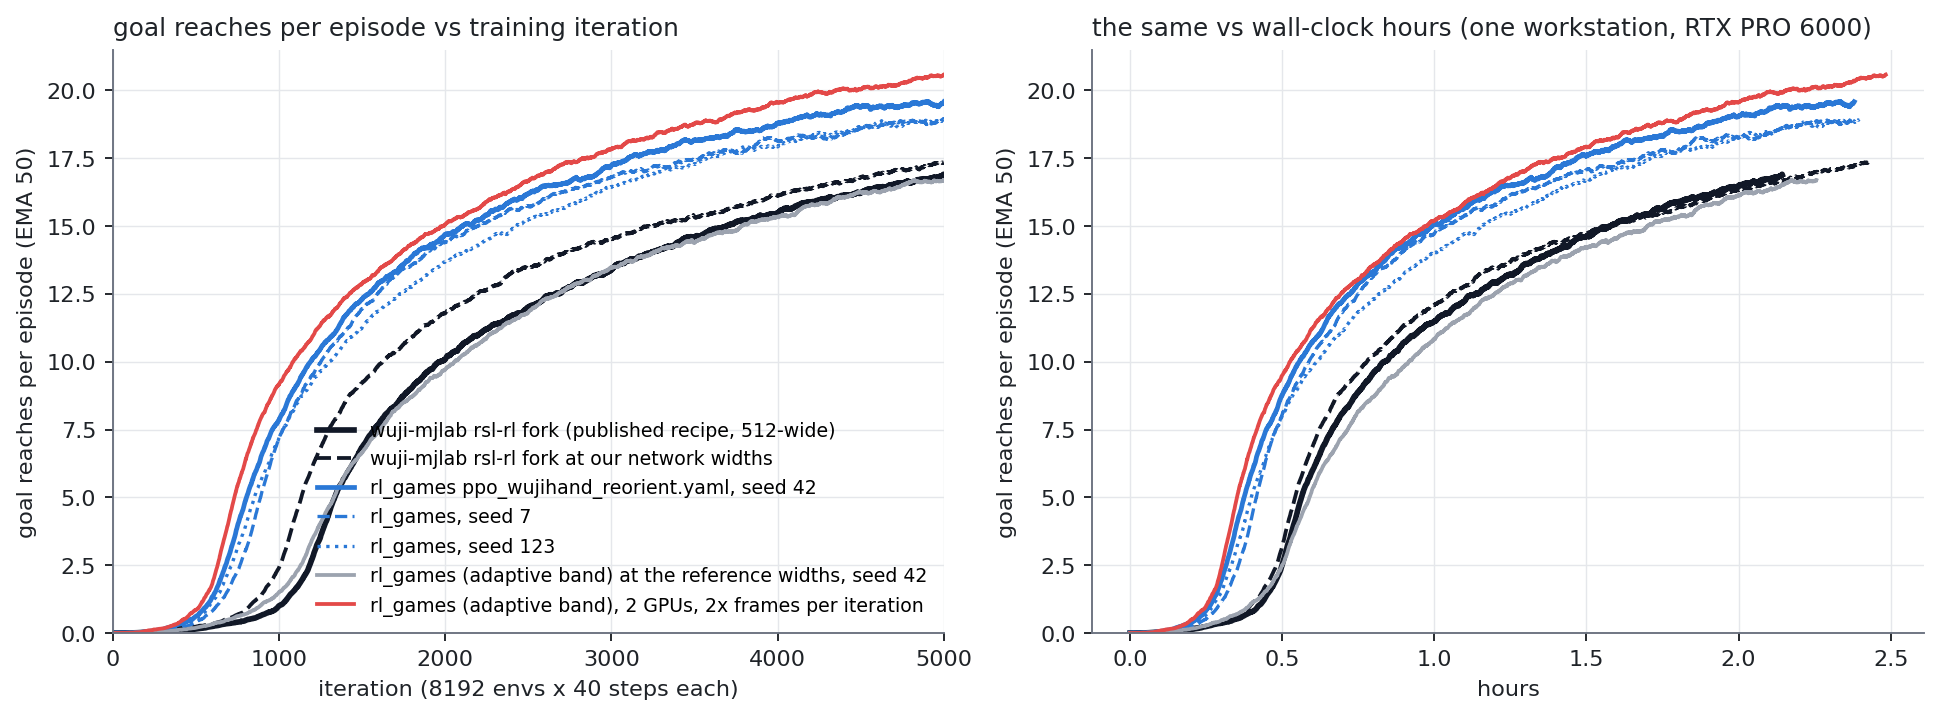
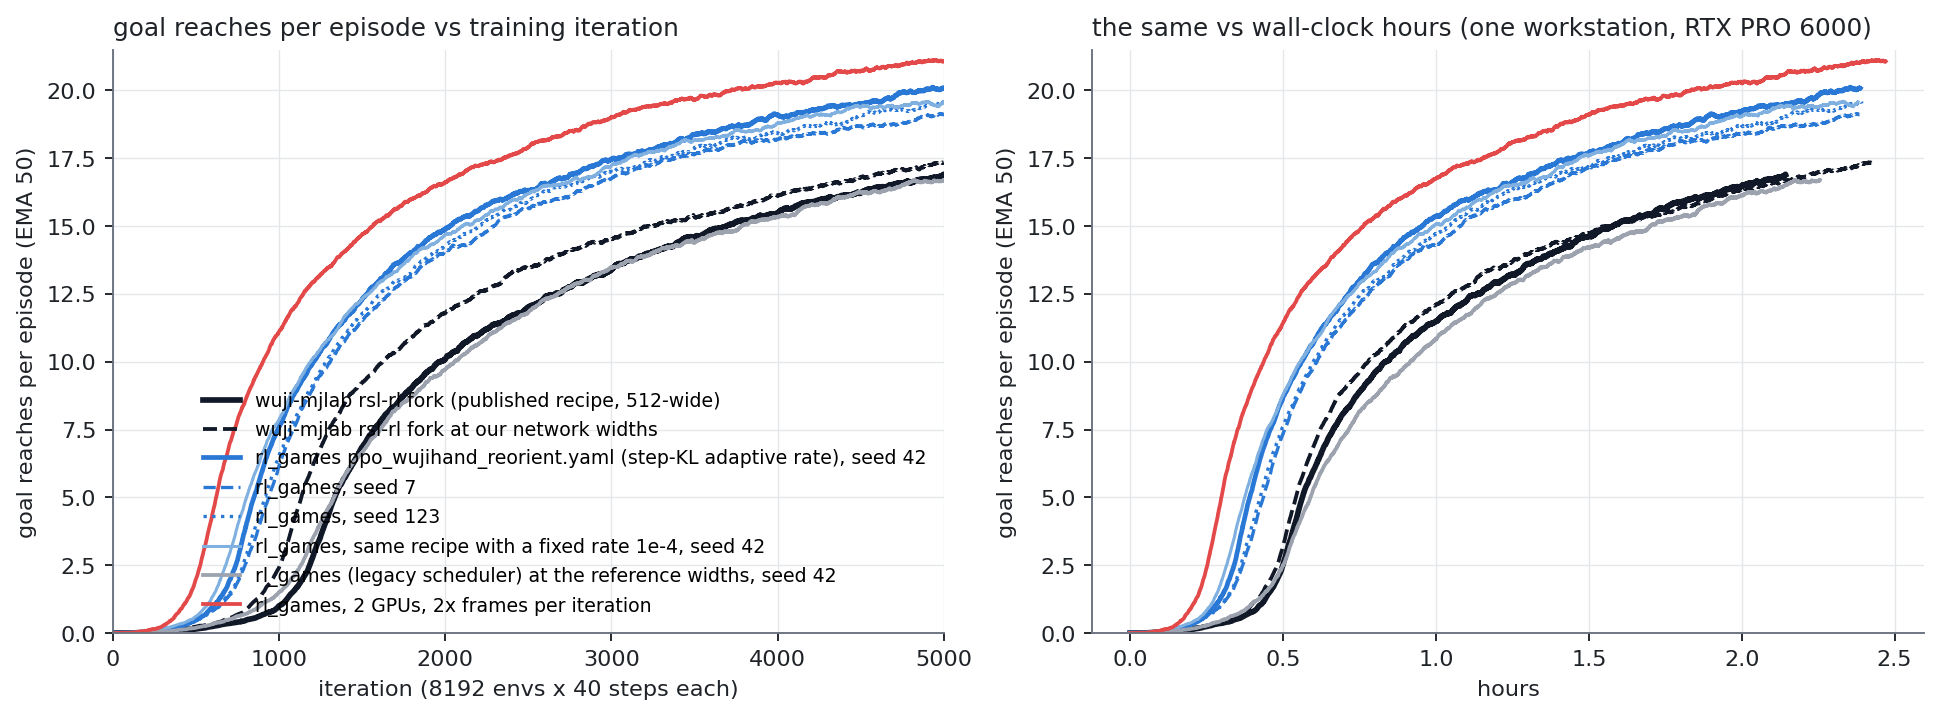
WujiHand: 2-GPU result for the shipped recipe (21.1 reaches, reference score in 1.02 h), refreshed comparison plot and gif
The gif is the 2-GPU checkpoint of the step-KL recipe (seed 42), same shot
as before: 9 goal reaches in the 20 s clip. Comparison plot: the three
shipped-recipe seeds, fixed 1e-4 and the legacy scheduler at the reference
widths as references, and the 2-GPU run. Docs table gets the 2-GPU row
(21.1 / 1.02 h; legacy scheduler on 2 GPUs was 20.6 / 1.27 h); README
numbers updated.

diff --git a/docs/MJLAB.md b/docs/MJLAB.md
@@ -117,14 +117,15 @@ reference's step-to-step action change is 0.39.
 | rl_games `ppo_wujihand_reorient.yaml` (step-KL adaptive rate), seeds 42 / 7 / 123 | **20.1 / 19.1 / 19.5** | **1.30 / 1.44 / 1.40 h** | 0.37 |
 | rl_games, same recipe with a fixed rate of 1e-4 | 19.6 / 18.9 / 18.9 | 1.38 / 1.44 / 1.54 h | 0.37 |
 | rl_games, same recipe with the legacy reference-KL scheduler (band 5e-5..2e-4, target 0.01) | 18.8 / 18.2 / 18.9 | 1.56 / 1.86 / 1.60 h | 0.37 |
-| rl_games, adaptive band, at the reference's network widths | 16.7 | — | 0.36 |
-| rl_games, adaptive band, on 2 GPUs (2× frames per iteration) | **20.6** | 1.27 h | 0.36 |
+| rl_games, legacy scheduler, at the reference's network widths | 16.7 | — | 0.36 |
+| rl_games `ppo_wujihand_reorient.yaml` on 2 GPUs (2× frames per iteration) | **21.1** | **1.02 h** | 0.36 |
+| rl_games, legacy scheduler, on 2 GPUs | 20.6 | 1.27 h | 0.36 |
 
 The three full-width single-GPU rl_games rows each have three seeds
 (42 / 7 / 123); the other rows each report one run. These runs had no terminal
 action storm. The width comparisons help assess the recipes, but do not
 isolate the trainer: exploration, normalization and minibatch geometry also
-differ, and the smaller rl_games network used the adaptive schedule. These
+differ, and the smaller rl_games network used the legacy scheduler. These
 are training metrics, not held-out evaluation scores. The shipped recipe
 reaches the published reference's final training score in 33–39% less wall
 time on this machine; equal frames do not imply equal optimizer steps or

diff --git a/README.md b/README.md
@@ -45,7 +45,7 @@
 **WujiHand in-hand cube reorientation** ([wuji-mjlab](https://github.com/wuji-technology/wuji-mjlab)):
 on the unmodified task, rl_games trains to **19.1–20.1 goal reaches per episode (three seeds) vs 16.9**
 for the reference rsl-rl fork at the same training budget, reaches the reference's final score in
-1.3–1.4 h instead of 2.1 h, and scales to 20.6 on 2 GPUs. Full comparison, the training recipe and the
+1.3–1.4 h instead of 2.1 h, and scales to 21.1 on 2 GPUs (reference score in 1.0 h). Full comparison, the training recipe and the
 stability notes in [docs/MJLAB.md](docs/MJLAB.md).
 
 ![WujiHand Reorient](https://raw.githubusercontent.com/Denys88/rl_games/master/docs/pictures/mjlab/wujihand_reorient.gif)
